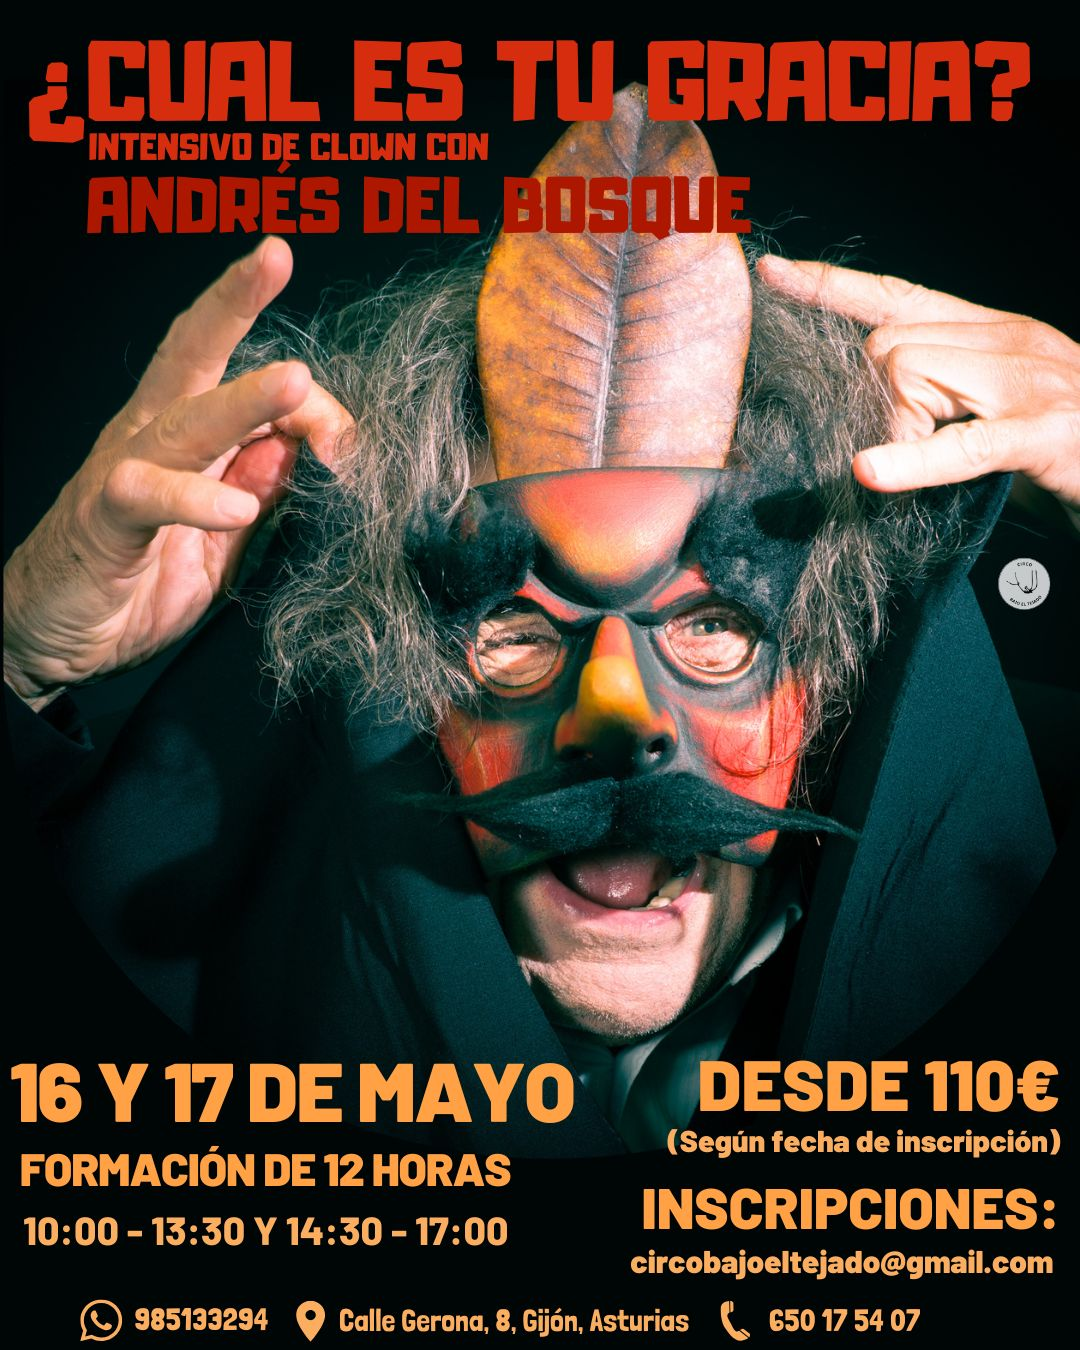
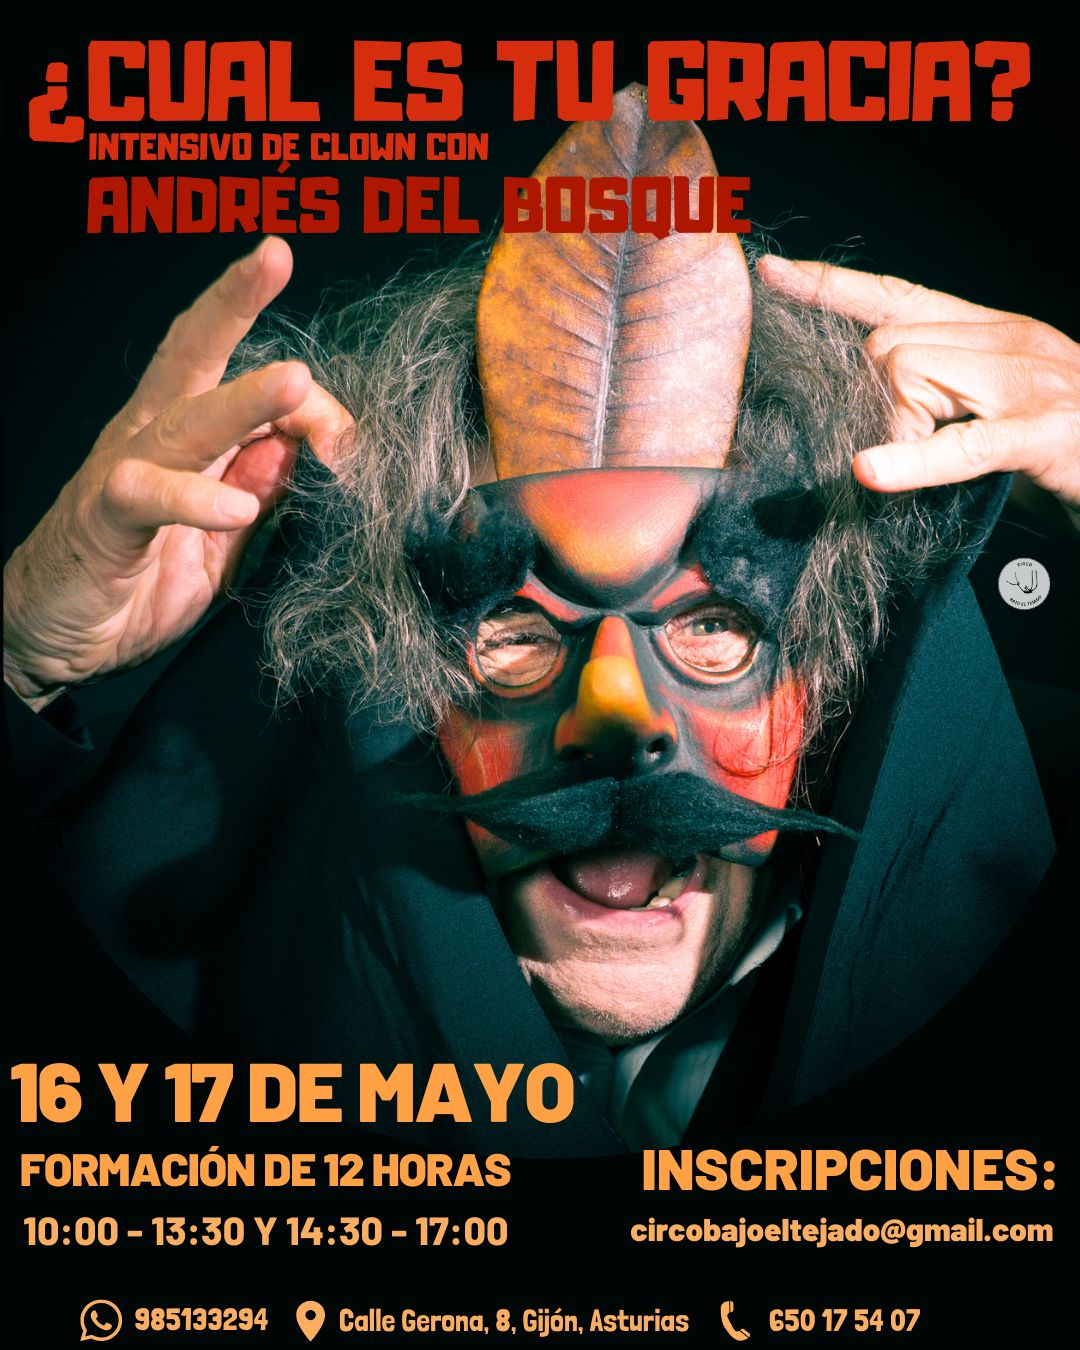
actualizar imagen gijon

Changed region(s): [[0.5806, 0.7778, 0.9778, 0.9644]]

diff --git a/content/noticias/2026-05-16-intensivo-gijon/index.md b/content/noticias/2026-05-16-intensivo-gijon/index.md
@@ -12,8 +12,6 @@ Intensivo de clown con Andrés del Bosque
 16 y 17 de mayo de 2026
 Formación de 12 horas
 
-Desde 110 € (según fecha de inscripción)
-
 ---
 
 ![](cartel.jpeg)
